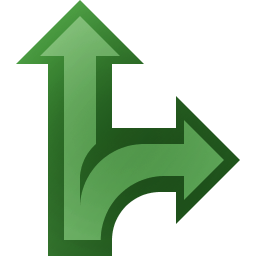
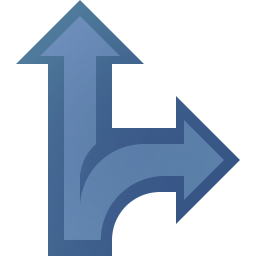
1.5.0.5 更改图标

diff --git a/VMS/VMS/View/MainWindow.xaml b/VMS/VMS/View/MainWindow.xaml
@@ -4,7 +4,7 @@
  xmlns:d="http://schemas.microsoft.com/expression/blend/2008"
  xmlns:mc="http://schemas.openxmlformats.org/markup-compatibility/2006"
  xmlns:local="clr-namespace:VMS.ViewModel"
- mc:Ignorable="d" Height="720" Width="1280" FontSize="16" WindowStartupLocation="CenterScreen" MinWidth="800" MinHeight="600" Loaded="Window_Loaded" Title="版本管理" Closing="Window_Closing" Icon="/TSVNCache;component/VMS.ico">
+ mc:Ignorable="d" FontSize="16" WindowStartupLocation="CenterScreen" MinWidth="800" MinHeight="600" Loaded="Window_Loaded" Title="版本管理" Closing="Window_Closing" Icon="/TSVNCache;component/VMS.ico">
 	<Window.Resources>
 		<Style TargetType="DataGridCell">
 			<Setter Property="Focusable" Value="True"/>

diff --git a/VMS/VMS/View/MainWindow.xaml.cs b/VMS/VMS/View/MainWindow.xaml.cs
@@ -425,14 +425,7 @@ namespace VMS.View
 			}
 		}
 
-		private void Open_Click(object sender, RoutedEventArgs e)
-		{
-			var prj = Directory.GetFiles(Settings.LoaclRepoPath, "*.sln", SearchOption.AllDirectories);
-			if(prj.Length > 0)
-			{
-				Process.Start(prj[0]);
-			}
-		}
+		private void Open_Click(object sender, RoutedEventArgs e) => Process.Start(Directory.GetFiles(Settings.LoaclRepoPath, "*.sln", SearchOption.AllDirectories).FirstOrDefault() ?? Settings.LoaclRepoPath);
 
 		private void Explorer_Click(object sender, RoutedEventArgs e) => Process.Start(Settings.LoaclRepoPath);
 
